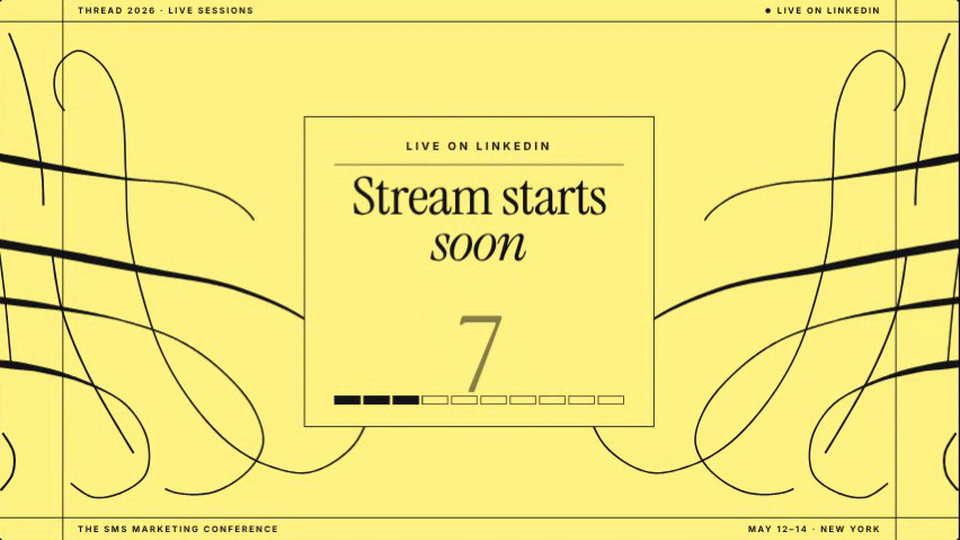
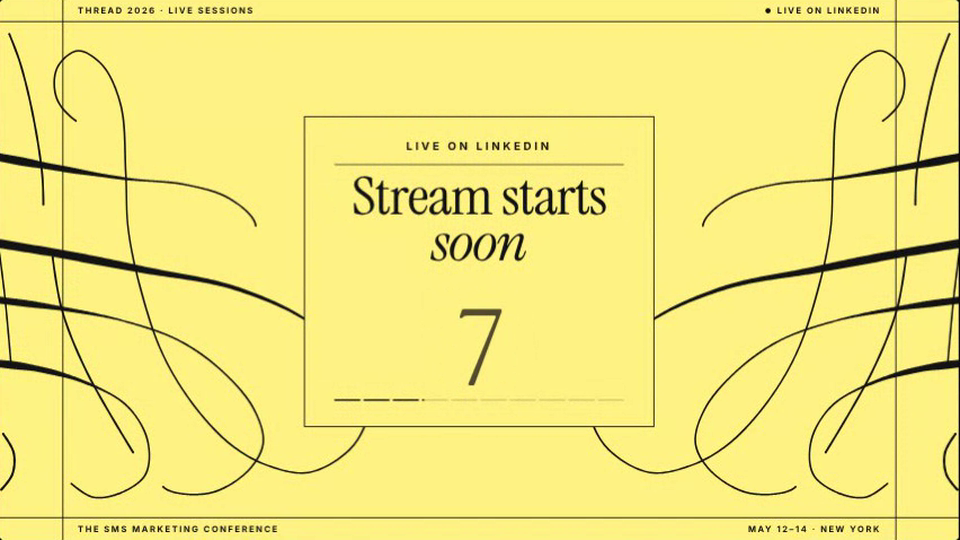
Thread Live Session: countdown progress as hairlines
Claude-Session: https://claude.ai/code/session_01AHeBdwQPwtEckS4hQ3qzfK

diff --git a/thread-live-session/index.html b/thread-live-session/index.html
@@ -333,7 +333,7 @@ function sSoon(ctx, c) {
   const cw = 52, gap = (pw - 120 - 10 * cw) / 9, ty = py + ph - 62;   // ten cells, one fills every second
   for (let i = 0; i < COUNT; i++) {
     const x = px + 60 + i * (cw + gap), f = live ? 1 : i < Math.floor(tc) ? 1 : i === Math.floor(tc) ? tc - Math.floor(tc) : 0;
-    ctx.save(); ctx.strokeStyle = ink; ctx.fillStyle = ink; ctx.lineWidth = 1.5; ctx.strokeRect(x + 0.75, ty + 0.75, cw - 1.5, 16.5); ctx.fillRect(x, ty, cw * f, 18); ctx.restore();
+    ctx.save(); ctx.strokeStyle = ink; ctx.lineWidth = 2; ctx.lineCap = 'butt'; ctx.globalAlpha = 0.28; ctx.beginPath(); ctx.moveTo(x, ty + 9); ctx.lineTo(x + cw, ty + 9); ctx.stroke(); ctx.globalAlpha = 1; ctx.lineWidth = 3; if (f > 0) { ctx.beginPath(); ctx.moveTo(x, ty + 9); ctx.lineTo(x + cw * f, ty + 9); ctx.stroke(); } ctx.restore();
   }
 }
 
